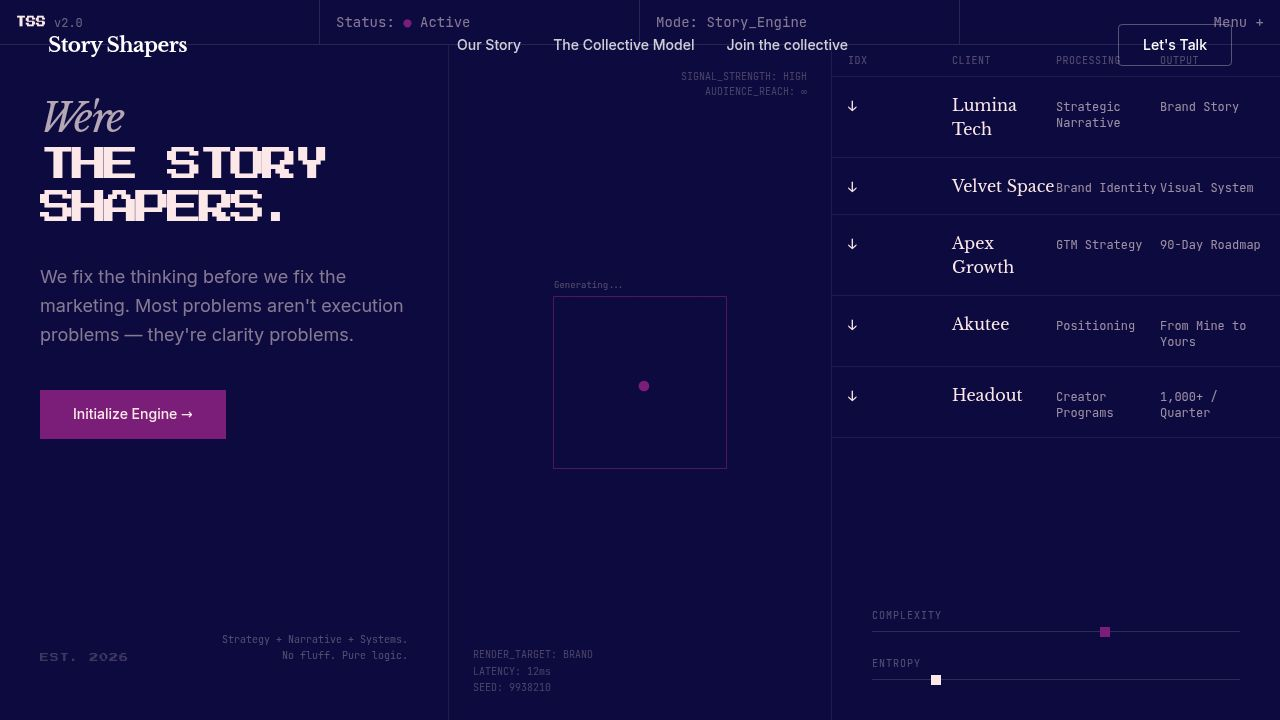
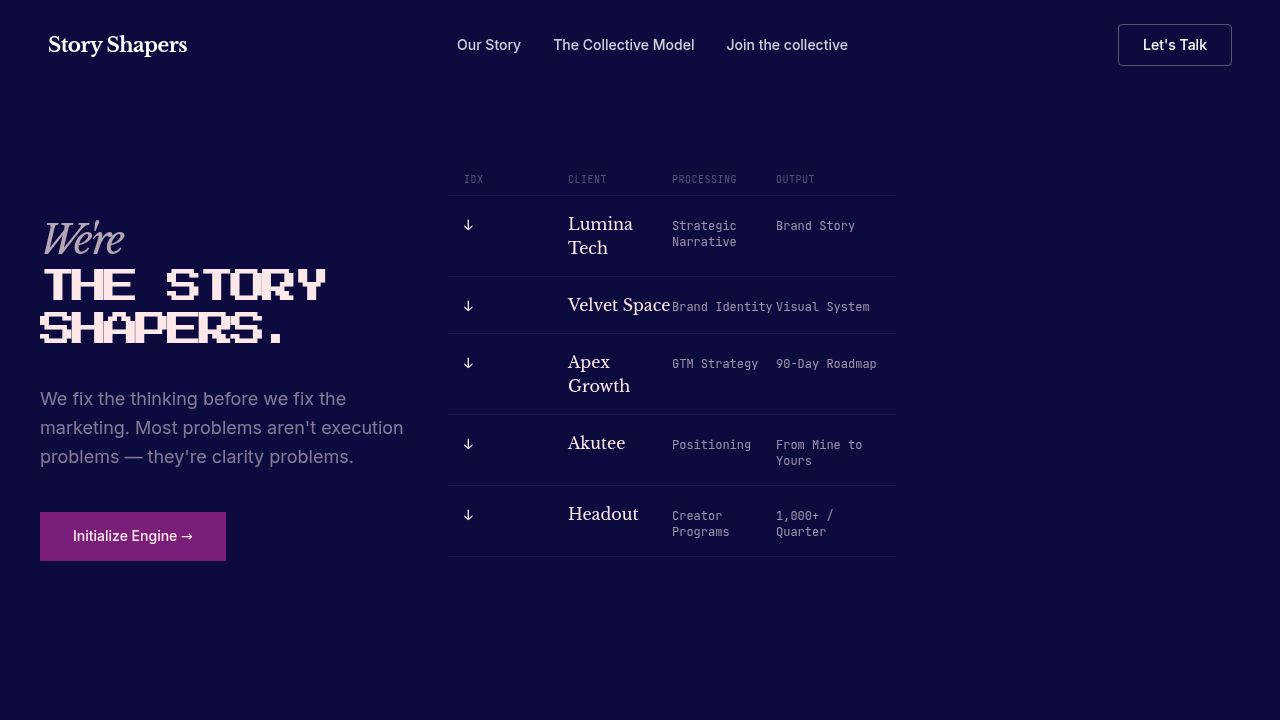
Remove morphing shape and grid section from hero
Removes the morphing shape animation, grid overlay, and related state/transforms from the Hero component in `src/components/home/Hero.tsx`.

Replit-Commit-Author: Agent
Replit-Commit-Session-Id: e5a1384f-d429-4b4e-81e7-4a034284c63a
Replit-Commit-Checkpoint-Type: full_checkpoint
Replit-Commit-Event-Id: a47dea60-dcb0-4b24-b311-c00806486adf
Replit-Commit-Screenshot-Url: https://storage.googleapis.com/screenshot-production-us-central1/c6ba7a26-e271-4d7a-8513-47016bca494b/e5a1384f-d429-4b4e-81e7-4a034284c63a/OFddO7r
Replit-Helium-Checkpoint-Created: true

diff --git a/client/src/components/home/Hero.tsx b/client/src/components/home/Hero.tsx
@@ -1,5 +1,5 @@
 import { motion, useScroll, useTransform } from "framer-motion";
-import { useRef, useState, useEffect } from "react";
+import { useRef } from "react";
 
 const caseStudies = [
   {
@@ -34,40 +34,18 @@ const caseStudies = [
   },
 ];
 
-const engineCells = Array.from({ length: 48 });
-
 export function Hero() {
   const containerRef = useRef<HTMLDivElement>(null);
-  const [shapeState, setShapeState] = useState(0);
-
-  useEffect(() => {
-    const shapeTimer = setInterval(() => {
-      setShapeState((prev) => (prev + 1) % 5);
-    }, 3000);
-    return () => clearInterval(shapeTimer);
-  }, []);
 
   const { scrollYProgress } = useScroll({
     target: containerRef,
     offset: ["start start", "end start"],
   });
 
-  const centerScale = useTransform(scrollYProgress, [0, 0.5], [1, 2.8]);
-  const gridOpacity = useTransform(scrollYProgress, [0, 0.3], [0.15, 0]);
   const sideOpacity = useTransform(scrollYProgress, [0, 0.25], [1, 0]);
   const leftY = useTransform(scrollYProgress, [0, 0.4], [0, -120]);
   const rightY = useTransform(scrollYProgress, [0, 0.4], [0, 120]);
   const overlayOpacity = useTransform(scrollYProgress, [0.3, 0.6], [0, 1]);
-
-  const shapeStyles = [
-    { width: 180, height: 180, borderRadius: "0%", rotate: 0, borderStyle: "solid" as const },
-    { width: 140, height: 220, borderRadius: "50%", rotate: 15, borderStyle: "dotted" as const },
-    { width: 260, height: 90, borderRadius: "100px", rotate: -5, borderStyle: "solid" as const },
-    { width: 160, height: 160, borderRadius: "0%", rotate: 0, borderStyle: "solid" as const },
-    { width: 200, height: 200, borderRadius: "20px", rotate: 0, borderStyle: "solid" as const },
-  ];
-
-  const currentShape = shapeStyles[shapeState];
 
   return (
     <section
@@ -134,79 +112,6 @@ export function Hero() {
               </a>
             </div>
           </motion.div>
-
-          <div
-            className="lg:w-[30%] relative flex items-center justify-center z-20"
-            style={{ borderLeft: "1px solid rgba(253,232,233,0.08)", borderRight: "1px solid rgba(253,232,233,0.08)" }}
-          >
-            <motion.div
-              style={{ scale: centerScale }}
-              className="relative w-full h-full flex items-center justify-center"
-            >
-              <motion.div
-                className="absolute inset-0 pointer-events-none"
-                style={{ opacity: gridOpacity }}
-              >
-                <div
-                  className="w-full h-full grid grid-cols-12 grid-rows-4"
-                  style={{ gap: "1px" }}
-                >
-                  {engineCells.map((_, i) => (
-                    <div
-                      key={i}
-                      style={{
-                        borderRight: "1px solid rgba(253,232,233,0.06)",
-                        borderBottom: "1px solid rgba(253,232,233,0.06)",
-                      }}
-                    />
-                  ))}
-                </div>
-              </motion.div>
-
-              <div className="relative z-10">
-                <motion.div
-                  animate={{
-                    width: currentShape.width,
-                    height: currentShape.height,
-                    borderRadius: currentShape.borderRadius,
-                    rotate: currentShape.rotate,
-                  }}
-                  transition={{ duration: 1.5, ease: [0.19, 1, 0.22, 1] }}
-                  style={{
-                    border: `1px ${currentShape.borderStyle} rgba(123,30,122,0.6)`,
-                    position: "relative",
-                  }}
-                  data-testid="variant-object"
-                >
-                  <motion.div
-                    className="absolute top-1/2 left-1/2"
-                    style={{
-                      width: 8,
-                      height: 8,
-                      borderRadius: "50%",
-                      backgroundColor: "#7B1E7A",
-                      transform: "translate(-50%, -50%)",
-                    }}
-                    animate={{ scale: [1, 1.4, 1] }}
-                    transition={{ duration: 2, repeat: Infinity }}
-                  />
-
-                  <span
-                    className="absolute font-mono text-[9px]"
-                    style={{
-                      top: -18,
-                      left: 0,
-                      color: "rgba(253,232,233,0.3)",
-                    }}
-                  >
-                    Generating...
-                  </span>
-                </motion.div>
-              </div>
-
-
-            </motion.div>
-          </div>
 
           <motion.div
             style={{ opacity: sideOpacity, y: rightY }}
